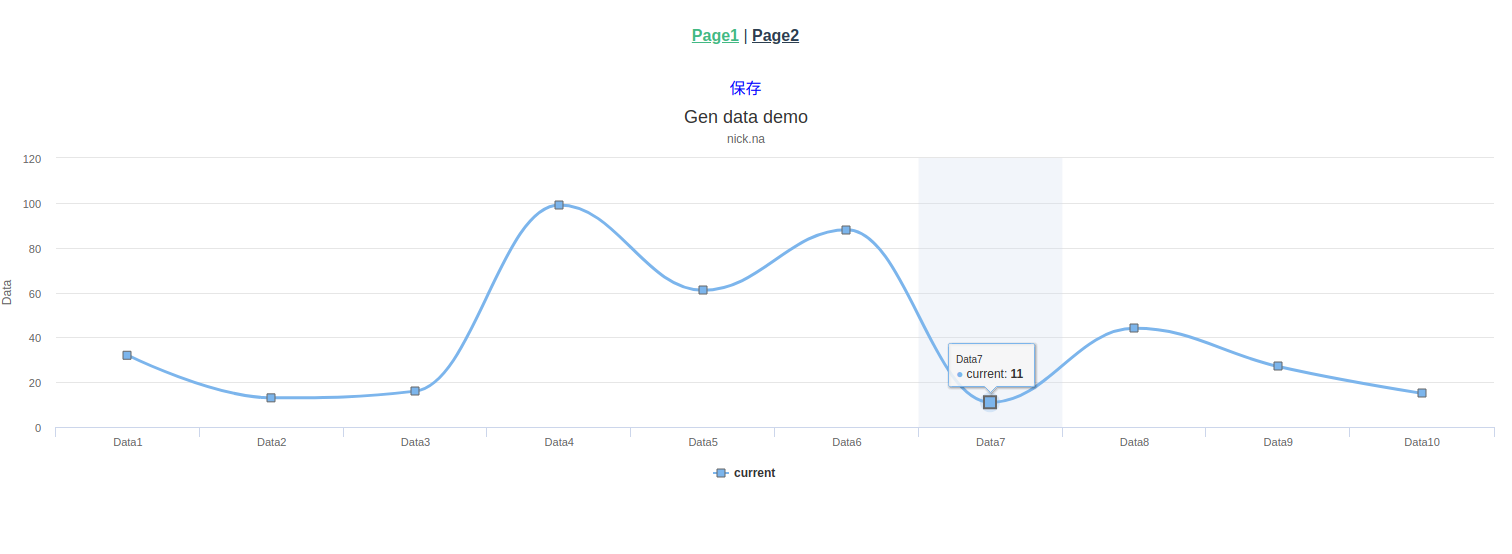
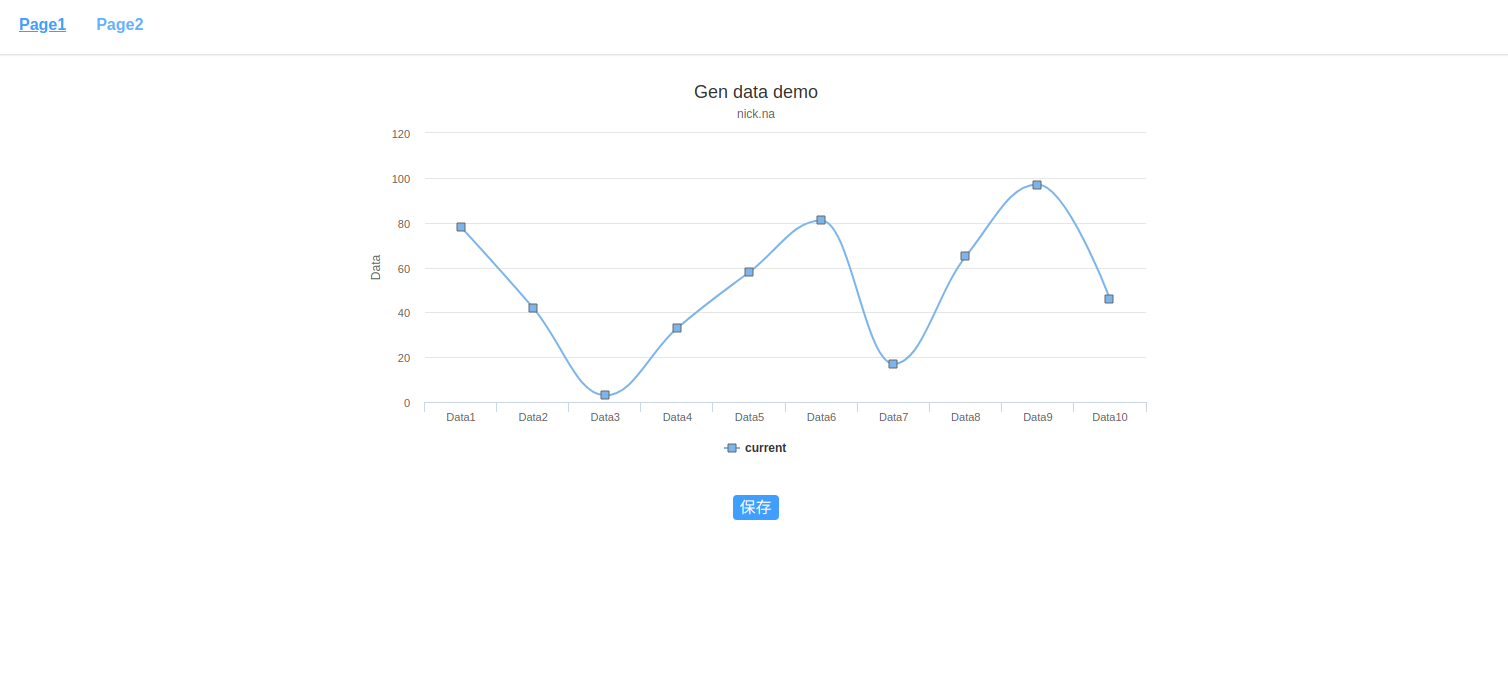
UI调整

diff --git a/h5/src/views/Page1.vue b/h5/src/views/Page1.vue
@@ -1,9 +1,16 @@
 <template>
-  <div>
-    <div class="save">
-     <span @click="save">保存</span>
+  <div class="page1">
+    <div class="charts">
+      <vue-highcharts :options="options" ref="lineCharts"></vue-highcharts>
     </div>
-    <vue-highcharts :options="options" ref="lineCharts"></vue-highcharts>
+    <div class="save-group">
+     <span class="save" @click="save">保存</span>
+    </div>
+    <div class="message">
+      <span v-for="(message, index) in messages" :key="index">
+        {{ message }} <br/>
+      </span>
+    </div>
   </div>
 </template>
 
@@ -16,6 +23,7 @@ export default {
   },
   data () {
     return {
+      messages: [],
       timer: null,
       showLast: false,
       lastData: {
@@ -91,7 +99,7 @@ export default {
     this.update()
     this.timer = setInterval(() => {
       this.update()
-    }, 10000)
+    }, 15000)
   },
   beforeRouteLeave (to, from, next) {
     clearInterval(this.timer)
@@ -124,7 +132,7 @@ export default {
       this.$http.post('/api/save-data', {
         data: this.currentData.data
       }).then((response) => {
-        console.log(response.data)
+        this.messages.splice(0, 0, response.data.data)
       })
     }
   }
@@ -132,7 +140,23 @@ export default {
 </script>
 
 <style scoped lang="stylus">
+.page1
+  width 800px
+  margin 20px auto
+
+.save-group
+  margin 20px 0
+  text-align center
+
 .save
-  color blue
+  padding 4px 7px
   cursor pointer
+  color #FFF
+  background-color #409EFF
+  border-color #409EFF
+  border-radius 4px
+
+.charts
+  width 800px
+  height 400px
 </style>

diff --git a/h5/src/views/Page2.vue b/h5/src/views/Page2.vue
@@ -1,15 +1,15 @@
 <template>
   <div class="page2">
-    <table border="1">
-      <tr>
-        <th>Id</th>
-        <th>Value</th>
-      </tr>
-      <tr v-for="(item, index) in data" :key="index">
-        <td>{{ item.id }}</td>
-        <td>{{ item.data }}</td>
-      </tr>
-    </table>
+    <div class="table">
+      <div class="line table-header">
+        <div class="header">Id</div>
+        <div class="value">Value</div>
+      </div>
+      <div class="line" v-for="(item, index) in data" :key="index">
+        <div class="header">{{ item.id }}</div>
+        <div class="value">{{ item.data }}</div>
+      </div>
+    </div>
   </div>
 </template>
 
@@ -31,3 +31,27 @@ export default {
   }
 }
 </script>
+
+<style lang="stylus" scoped>
+.table
+  border 1px solid #aaa
+  border-radius 5px
+  width 600px
+  margin 20px auto
+
+.line
+  height 36px
+  line-height 36px
+  .header
+    width 100px
+    text-align center
+    display inline-block
+  .value
+    display inline-block
+    border-left 1px solid #aaa
+    padding-left 20px
+  + .line
+    border-top 1px solid #aaa
+  &.table-header
+    font-weight 700
+</style>

diff --git a/h5/src/App.vue b/h5/src/App.vue
@@ -1,25 +1,34 @@
 <template>
   <div id="app">
     <div id="nav">
-      <router-link to="/">Page1</router-link> |
+      <router-link to="/">Page1</router-link>
       <router-link to="/page2">Page2</router-link>
     </div>
     <router-view/>
   </div>
 </template>
 <style lang="stylus">
+html
+  margin 0
+  padding 0
+body
+  margin 0
+  padding 0
 #app
   font-family 'Avenir', Helvetica, Arial, sans-serif
   -webkit-font-smoothing antialiased
   -moz-osx-font-smoothing grayscale
-  text-align center
   color #2c3e50
 
 #nav
-  padding 30px
+  box-shadow 0 1px 2px 0 rgba(0, 0, 0, .15)
+  padding 20px 30px
   a
+    margin-right 30px
     font-weight bold
-    color #2c3e50
+    color #66b1ff
+    text-decoration none
     &.router-link-exact-active
-      color #42b983
+      color #409EFF
+      text-decoration underline
 </style>

diff --git a/web/api/views.py b/web/api/views.py
@@ -36,5 +36,5 @@ class SaveDataView(View):
             save_data = SaveData()
             save_data.data = data['data']
             save_data.save()
-            return response_success({'id': save_data.id})
-        return response_success({'id': -1})
+            return response_success({'id': save_data.id, 'data': save_data.data})
+        return response_success({'id': -1 })
